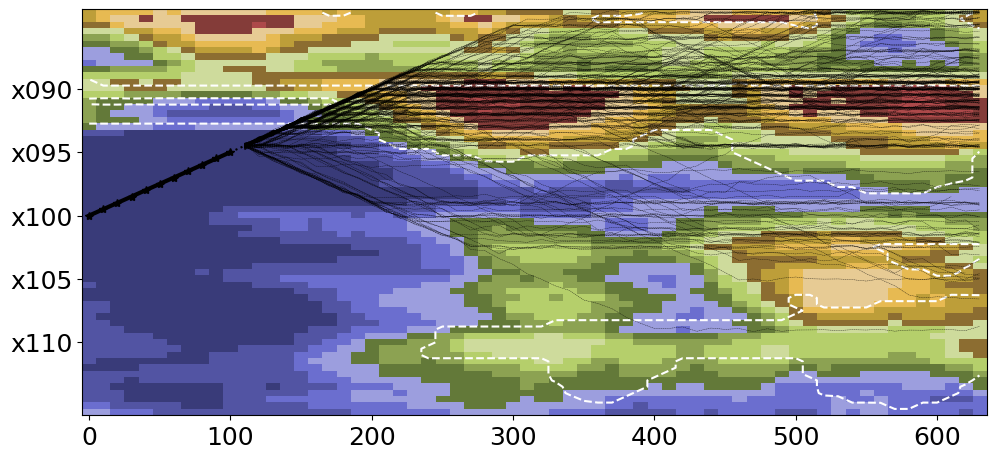
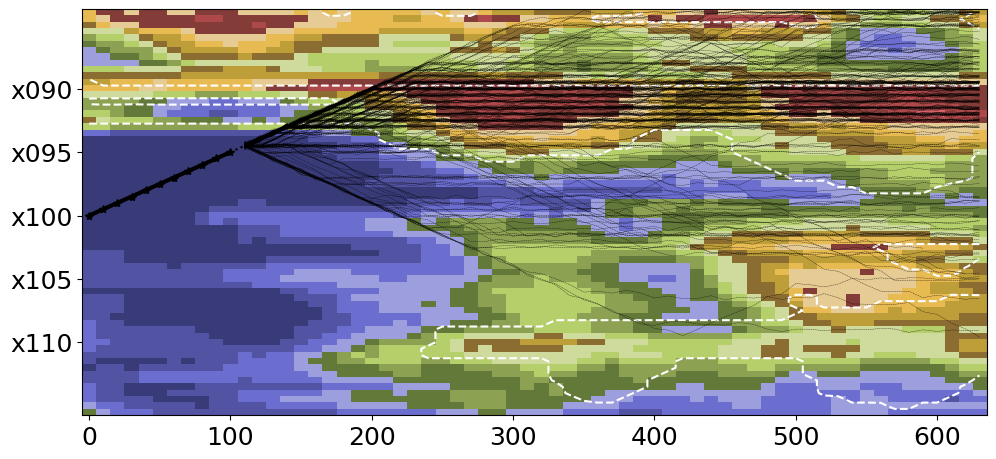
Closing figures

diff --git a/plot_result.py b/plot_result.py
@@ -69,7 +69,7 @@ def main():
     # Use the 'viridis' colormap
     res_im = ax_res.imshow(true_resistivity_image, aspect='auto', cmap='summer', vmin=1, vmax=200)
     cbar = plt.colorbar(res_im, ax=ax_res)
-    em_model_for_overlay_plotting_step = 18
+    em_model_for_overlay_plotting_step = 19
     # plt.show()
 
     # todo load from the config file! @KriFos1
@@ -246,7 +246,7 @@ def main():
             fig.savefig(f'{plot_path}legend.pdf', bbox_inches='tight')
             saved_legend = True
 
-
+        fig.close()
         # drilled_path.append(checkpoint_at_step['pos'])# note that we compute another one during viosualization
 
         # plt.show()
